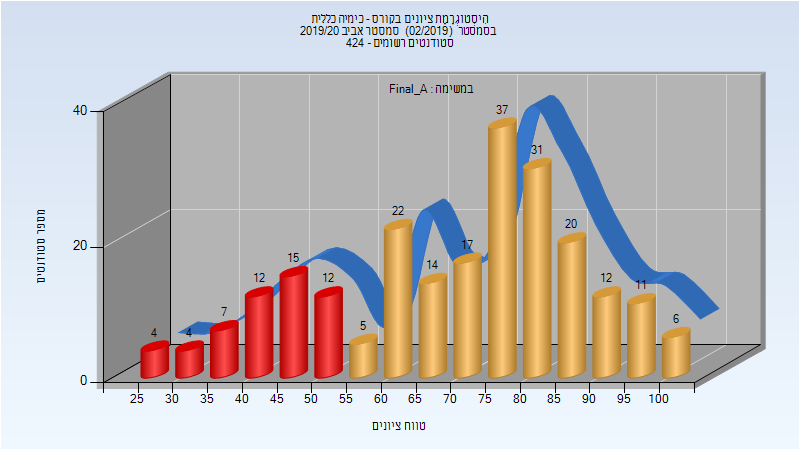
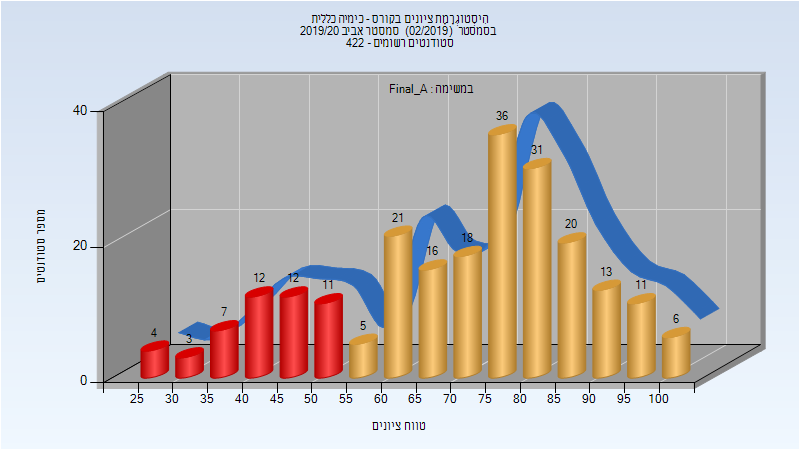
Deploy michael-maltsev/technion-histograms to github.com/michael-maltsev/technion-histograms.git:gh-pages

diff --git a/125001/index.html b/125001/index.html
@@ -2013,12 +2013,12 @@
 </thead>
 <tbody>
 <tr>
-<td>229</td>
-<td>178/51</td>
-<td>78</td>
+<td>226</td>
+<td>178/48</td>
+<td>79</td>
 <td>25</td>
 <td>100</td>
-<td>67.271</td>
+<td>67.633</td>
 <td>70</td>
 </tr>
 </tbody>
@@ -2039,12 +2039,38 @@
 </thead>
 <tbody>
 <tr>
-<td>229</td>
-<td>175/54</td>
-<td>76</td>
+<td>226</td>
+<td>177/49</td>
+<td>78</td>
 <td>25</td>
 <td>100</td>
-<td>69.55</td>
+<td>70.243</td>
+<td>75</td>
+</tr>
+</tbody>
+</table>
+<h3>סופי</h3>
+<p><img src="201902/Finals.png" alt="201902 Finals" /></p>
+<table>
+<thead>
+<tr>
+<th>סטודנטים</th>
+<th>עברו/נכשלו</th>
+<th>אחוז עוברים</th>
+<th>ציון מינימלי</th>
+<th>ציון מקסימלי</th>
+<th>ממוצע</th>
+<th>חציון</th>
+</tr>
+</thead>
+<tbody>
+<tr>
+<td>227</td>
+<td>177/50</td>
+<td>78</td>
+<td>25</td>
+<td>100</td>
+<td>70.031</td>
 <td>75</td>
 </tr>
 </tbody>

diff --git a/125001/README.md b/125001/README.md
@@ -623,7 +623,7 @@
 
 | סטודנטים | עברו/נכשלו | אחוז עוברים | ציון מינימלי | ציון מקסימלי | ממוצע | חציון |
 | ---- | ---- | ---- | ---- | ---- | ---- | ---- |
-| 229 | 178/51 | 78 | 25 | 100 | 67.271 | 70 |
+| 226 | 178/48 | 79 | 25 | 100 | 67.633 | 70 |
 
 ### סופי מועד א'
 
@@ -631,5 +631,13 @@
 
 | סטודנטים | עברו/נכשלו | אחוז עוברים | ציון מינימלי | ציון מקסימלי | ממוצע | חציון |
 | ---- | ---- | ---- | ---- | ---- | ---- | ---- |
-| 229 | 175/54 | 76 | 25 | 100 | 69.55 | 75 |
+| 226 | 177/49 | 78 | 25 | 100 | 70.243 | 75 |
+
+### סופי
+
+![201902 Finals](201902/Finals.png)
+
+| סטודנטים | עברו/נכשלו | אחוז עוברים | ציון מינימלי | ציון מקסימלי | ממוצע | חציון |
+| ---- | ---- | ---- | ---- | ---- | ---- | ---- |
+| 227 | 177/50 | 78 | 25 | 100 | 70.031 | 75 |
 
